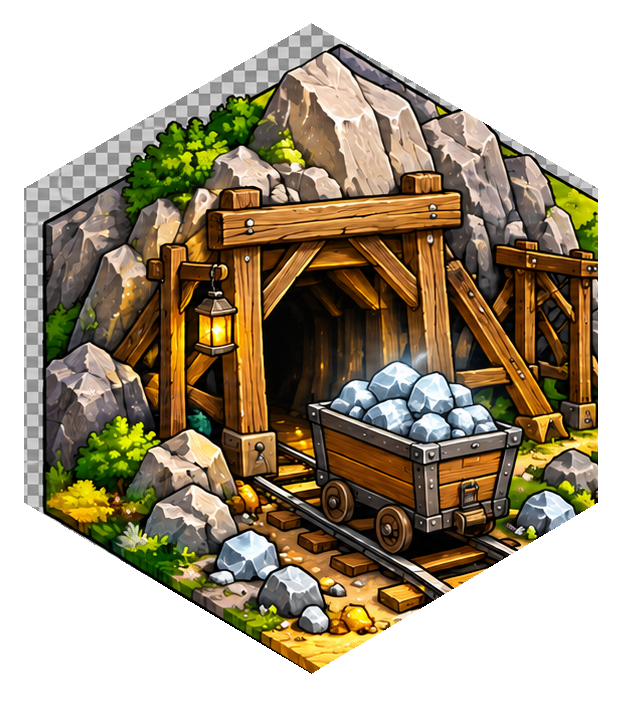
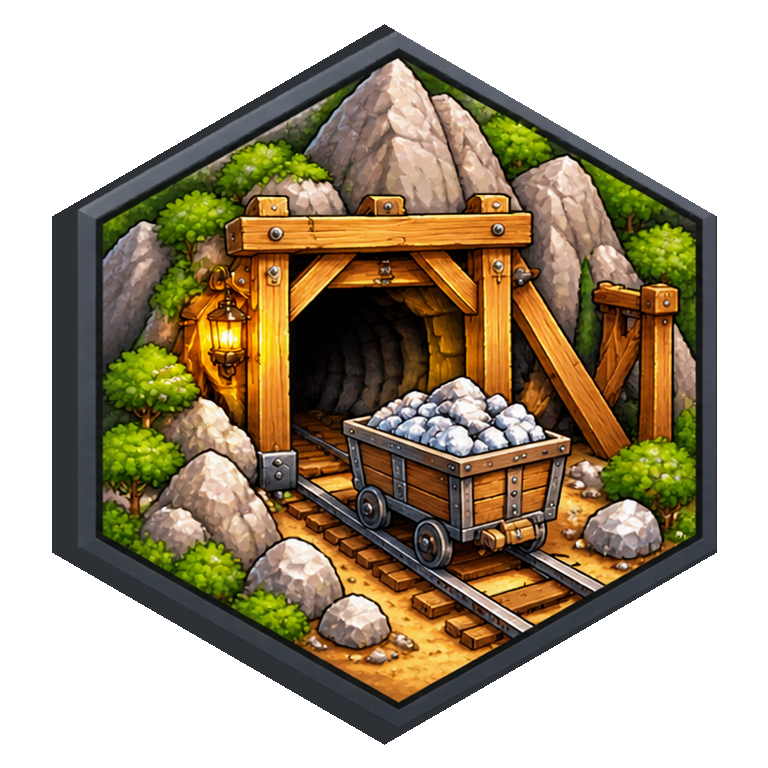
Apply final tile artwork with preserved rims and versioned assets

diff --git a/tests/browser/tile-png.spec.ts b/tests/browser/tile-png.spec.ts
@@ -1,3 +1,5 @@
+import { createHash } from "node:crypto";
+import finalTiles from "../../public/tiles/estate/manifest.json";
 import { test, expect, type Locator } from "@playwright/test";
 import { setup, placed, stash } from "../fixtures/shields";
 import { validateCoreState } from "../../src/game/core/state";
@@ -39,9 +41,9 @@ test("four PNG illustrations share intact hex frames across supply storage estat
 
 test("castle silver mine and ship use one full PNG frame in supply storage estate and zoom",async({page},info)=>{
  await init(page);
- for(const asset of ["castle","mine","ship"]){const game=fixture(asset);await load(page,game);const path=`/tiles/${asset}.png`,images=page.locator(`image[data-tile-art-png="${path}"]`);await expect.poll(()=>images.count()).toBeGreaterThanOrEqual(3);
-  for(const image of await images.all()){await expect(image).toHaveAttribute("data-tile-image-mode","full");await expect(image).toHaveAttribute("preserveAspectRatio","xMidYMid meet");await expect(frame(image).locator('[data-tile-frame="svg"]')).toHaveCount(0);await expect(frame(image)).toHaveAttribute("viewBox",await frame(image).getAttribute("data-estate-art")?/^0 0 100 115\.47/:"0 0 100 110");}
-  await expect(page.locator(`.estate-keyspaces image[href="${path}"]`)).toHaveCount(1);expect(await page.locator(`.common-board-svg image[href="${path}"]`).count()).toBeGreaterThanOrEqual(1);
+ for(const asset of ["castle","mine","ship"] as const){const game=fixture(asset);await load(page,game);const path=`/tiles/${asset}.png`,images=page.locator(`image[data-tile-art-png="${path}"]`);await expect.poll(()=>images.count()).toBeGreaterThanOrEqual(3);
+  for(const image of await images.all()){const href=(await image.getAttribute("href"))!;expect(href).toContain(`?v=${finalTiles.assets[asset][href.includes("/estate/")?"outputSha256":"sourceSha256"].slice(0,12)}`);const served=await page.request.get(href);expect(served.ok()).toBe(true);expect(createHash("sha256").update(await served.body()).digest("hex")).toBe(href.includes("/estate/")?finalTiles.assets[asset].outputSha256:finalTiles.assets[asset].sourceSha256);await expect(image).toHaveAttribute("data-tile-image-mode","full");await expect(image).toHaveAttribute("preserveAspectRatio","xMidYMid meet");await expect(frame(image).locator('[data-tile-frame="svg"]')).toHaveCount(0);await expect(frame(image)).toHaveAttribute("viewBox",await frame(image).getAttribute("data-estate-art")?/^0 0 100 115\.47/:"0 0 100 110");}
+  await expect(page.locator(`.estate-keyspaces image[data-tile-art-png="${path}"]`)).toHaveCount(1);expect(await page.locator(`.common-board-svg image[data-tile-art-png="${path}"]`).count()).toBeGreaterThanOrEqual(1);
   const board=page.getByRole("group",{name:"규칙A 영지",exact:true}),image=board.locator(`image[data-tile-art-png="${path}"]`).last();const visible=await visibleTile(image);await visible.scrollIntoViewIfNeeded();const before=(await visible.boundingBox())!;await page.getByRole("button",{name:"규칙A 영지 확대",exact:true}).click();expect((await visible.boundingBox())!.width).toBeGreaterThan(before.width);
   await expect(frame(image).locator("..")).toHaveAttribute("clip-path",/^url\(#estate-clip-/);await expect(frame(image).locator("[data-estate-image]")).toHaveAttribute("preserveAspectRatio","xMidYMid meet");
   expect(await page.evaluate(()=>JSON.parse(localStorage.getItem("burgundy-expanded:local-v1")!).game.revision)).toBe(game.revision);
@@ -49,10 +51,10 @@ test("castle silver mine and ship use one full PNG frame in supply storage estat
  }
 });
 test("missing full PNGs restore original SVG artwork and recover after reload",async({page})=>{
- await page.route("**/tiles/**{castle,mine,ship}.png",route=>route.fulfill({status:404,body:"missing fixture"}));await init(page);
- for(const asset of ["castle","mine","ship"]){const game=fixture(asset);await load(page,game);const path=`/tiles/${asset}.png`,fallback=page.locator(`svg[data-tile-fallback="${path}"]`);await expect.poll(()=>fallback.count()).toBeGreaterThanOrEqual(3);await expect(page.locator(`image[href="${path}"]`)).toHaveCount(0);
+ await page.route("**/tiles/**{castle,mine,ship}.png*",route=>route.fulfill({status:404,body:"missing fixture"}));await init(page);
+ for(const asset of ["castle","mine","ship"]){const game=fixture(asset);await load(page,game);const path=`/tiles/${asset}.png`,fallback=page.locator(`svg[data-tile-fallback="${path}"]`);await expect.poll(()=>fallback.count()).toBeGreaterThanOrEqual(3);await expect(page.locator(`image[data-tile-art-png="${path}"]`)).toHaveCount(0);
   for(const svg of await fallback.all()){if(await svg.getAttribute("data-estate-art")){await expect(svg.locator("..")).toHaveAttribute("clip-path",/^url\(#estate-clip-/);}else{await expect(svg.locator('[data-tile-frame="svg"]')).toHaveCount(1);await expect(svg.locator("polygon").first()).toHaveAttribute("points","50,3 94,28 94,80 50,106 6,80 6,28");}expect(await svg.locator("path").count()).toBeGreaterThan(2);}
   expect(await page.evaluate(()=>JSON.parse(localStorage.getItem("burgundy-expanded:local-v1")!).game.revision)).toBe(game.revision);
  }
- await page.unroute("**/tiles/**{castle,mine,ship}.png");await page.reload();await expect(page.locator('image[href="/tiles/ship.png"]').first()).toBeAttached();await expect(page.locator('svg[data-tile-fallback="/tiles/ship.png"]')).toHaveCount(0);
+ await page.unroute("**/tiles/**{castle,mine,ship}.png*");await page.reload();await expect(page.locator('image[data-tile-art-png="/tiles/ship.png"]').first()).toBeAttached();await expect(page.locator('svg[data-tile-fallback="/tiles/ship.png"]')).toHaveCount(0);
 });

diff --git a/tests/browser/estate-geometry.spec.ts b/tests/browser/estate-geometry.spec.ts
@@ -1,3 +1,7 @@
+import { createElement } from "react";
+import { renderToStaticMarkup } from "react-dom/server";
+import { EstateTile, EstateGrid } from "../../src/app/estate-tile";
+import { estatePoints } from "../../src/app/estate-geometry";
 import { test,expect,type Page } from "@playwright/test";
 import { setup,placed } from "../fixtures/shields";
 import { serializeSavedGame } from "../../src/game/save";
@@ -14,7 +18,7 @@ test("estate zoom preserves board cells and saved game while recording layout",a
  const game=await load(page),board=page.getByRole("group",{name:"규칙A 영지",exact:true});let zoom=100;
  for(const target of [100,160,200]){while(zoom<target){await page.getByRole("button",{name:"규칙A 영지 확대",exact:true}).click();zoom+=10;}await expect(board.locator(".hex-cell")).toHaveCount(37);
   expect(await page.evaluate(()=>JSON.parse(localStorage.getItem("burgundy-expanded:local-v1")!).game)).toEqual(game);
-  if(process.env.ESTATE_CAPTURE_PREFIX==="before"?((info.project.name==="mobile-375"||info.project.name==="desktop-1280")&&target===160):(info.project.name==="mobile-375"||((info.project.name==="mobile-390"||info.project.name==="desktop-1280")&&target===160)))await board.screenshot({path:`.local-data/qa/estate-${process.env.ESTATE_CAPTURE_PREFIX??"after"}-${info.project.name}-${target}.png`});
+  if(process.env.ESTATE_CAPTURE_PREFIX==="before"?((info.project.name==="mobile-375"||info.project.name==="desktop-1280")&&target===160):(info.project.name==="desktop-1280"||info.project.name==="mobile-375"||(info.project.name==="mobile-390"&&target===160)))await board.screenshot({path:`.local-data/qa/estate-${process.env.ESTATE_CAPTURE_PREFIX??"after"}-${info.project.name}-${target}.png`});
  }
  const panel=board.locator("xpath=ancestor::section[1]"),viewport=board.locator("..");await panel.getByRole("button",{name:"영지 드래그 이동",exact:true}).click();await viewport.scrollIntoViewIfNeeded();
  if(await viewport.evaluate(el=>el.scrollWidth>el.clientWidth)){await viewport.evaluate(el=>{el.scrollLeft=0;});const b=(await viewport.boundingBox())!,size=page.viewportSize()!,x=Math.min(b.x+b.width-30,size.width-30),y=(Math.max(130,b.y)+Math.min(b.y+b.height,size.height-80))/2;await page.mouse.move(x,y);await page.mouse.down();await page.mouse.move(x-90,y,{steps:6});await page.mouse.up();expect(await viewport.evaluate(el=>el.scrollLeft)).toBeGreaterThan(0);}
@@ -53,4 +57,14 @@ test("normalized estate PNGs share one exact opaque hex mask without border padd
  const board=page.getByRole("group",{name:"규칙A 영지",exact:true});
  const images=board.locator('image[data-estate-image="normalized"]');expect(await images.count()).toBeGreaterThanOrEqual(4);
  const specs=await images.evaluateAll(els=>els.map(el=>["x","y","width","height","preserveAspectRatio"].map(a=>el.getAttribute(a)).join("|")));expect(new Set(specs).size).toBe(1);
+});
+
+
+test("all final framed tile pairs share edges and retain rims at PC zooms",async({page})=>{
+ const cells=(["castle","mine","ship"] as const).flatMap((type,row)=>[0,1].map(column=>({id:`${type}-${column}`,coord:{q:column-row,r:2*row},tile:{id:`pair-${type}-${column}`,type,back:"matching-color"} as Tile})));
+ const markup=renderToStaticMarkup(createElement("svg",{xmlns:"http://www.w3.org/2000/svg",viewBox:"260 220 190 410",width:380,height:820,"data-pair-board":"true"},...cells.map(cell=>createElement("g",{key:cell.id,"data-estate-cell":cell.id},createElement("polygon",{points:estatePoints(cell.coord),fill:"#eee9db"}),createElement(EstateTile,{tile:cell.tile,coord:cell.coord}))),createElement(EstateGrid,{cells})));
+ await page.goto("/");await page.setContent(`<html><body style="margin:0;background:#f5f0d2"><div>TEST FIXTURE · shared game EstateTile renderer</div>${markup}</body></html>`);
+ await page.locator('image[data-estate-image="normalized"]').evaluateAll(async els=>{await Promise.all(els.map(async el=>{const probe=new Image();probe.src=el.getAttribute("href")!;await probe.decode();}));});
+ const board=page.locator("[data-pair-board]");
+ for(const zoom of [100,160,200]){await board.evaluate((el,z)=>{el.setAttribute("width",String(190*z/100));el.setAttribute("height",String(410*z/100));},zoom);await board.screenshot({path:`.local-data/qa/final-tiles-pairs-${zoom}.png`});expect(await board.locator('[data-estate-tile]').count()).toBe(6);}
 });

diff --git a/src/app/tile-art.tsx b/src/app/tile-art.tsx
@@ -3,6 +3,7 @@
 import { useEffect, useState, type SVGProps } from "react";
 import type { Tile, TileType } from "../game/types";
 import { ESTATE_ART_HEIGHT } from "./estate-geometry";
+import finalTiles from "../../public/tiles/estate/manifest.json";
 
 export const terrainPaint: Record<TileType, string> = {
   castle: "#247654", ship: "#277f9b", mine: "#8f9188",
@@ -14,8 +15,10 @@ const edge = "50,3 94,28 94,80 50,106 6,80 6,28";
 export function TileArt({ tile, estate=false, ...props }: { tile: Tile; estate?:boolean } & SVGProps<SVGSVGElement>) {
   const building = tile.type === "building" ? tile.building : null;
   const tower = building === "watchtower" || building === "church";
-  const framedSource = tile.type === "castle" || tile.type === "mine" || tile.type === "ship" ? `/tiles/${tile.type}.png` : null;
-  const candidate = (estate&&framedSource?`/tiles/estate/${tile.type}.png`:framedSource) ?? (tile.type === "monastery" && (tile.number === 27 || tile.number === 28) ? `/tiles/monastery-${tile.number}.png` : building === "crane" ? "/tiles/crane.png" : tile.type === "livestock" && tile.species === "geese" ? "/tiles/goose.png" : null);
+  const framedType = tile.type === "castle" || tile.type === "mine" || tile.type === "ship" ? tile.type : null;
+  const framedSource = framedType ? `/tiles/${framedType}.png` : null;
+  const version = framedType ? finalTiles.assets[framedType][estate?"outputSha256":"sourceSha256"].slice(0,12) : null;
+  const candidate = (framedSource?`${estate?`/tiles/estate/${framedType}.png`:framedSource}?v=${version}`:null) ?? (tile.type === "monastery" && (tile.number === 27 || tile.number === 28) ? `/tiles/monastery-${tile.number}.png` : building === "crane" ? "/tiles/crane.png" : tile.type === "livestock" && tile.species === "geese" ? "/tiles/goose.png" : null);
   const [failedIllustration,setFailedIllustration]=useState<string|null>(null);
   // An SSR image may fail before hydration attaches onError. Probe again after mount.
   useEffect(()=>{if(!candidate)return;let active=true;const probe=new Image();probe.onerror=()=>{if(active)setFailedIllustration(candidate);};probe.src=candidate;return()=>{active=false;probe.onerror=null;};},[candidate]);

diff --git a/scripts/normalize-estate-tiles.py b/scripts/normalize-estate-tiles.py
@@ -1,97 +1,82 @@
-"""Presentation-only estate assets. Run with Python + Pillow; originals are never written.
-
-Fit the six body edges from opaque alpha runs (not flags or bounding-box margins).
-Uniformly cover a regular pointy hex, excluding the baked-in border by 1% of
-body height. All three images use exactly this algorithm, canvas and mask.
+"""Register the final shared 768px hex artwork to the board without cropping.
+Run with Python + Pillow. Originals are read-only. Six triangles map the measured
+source vertices to a regular pointy hex; one common transform preserves the rims.
 """
 from pathlib import Path
-from collections import Counter
-from statistics import median
 import hashlib
 import json
 import math
-from PIL import Image, ImageDraw
+from PIL import Image, ImageDraw, ImageChops
 
 ROOT = Path(__file__).resolve().parents[1]
 SIZE = 1024
+SOURCE_SIZE = 768
+SOURCE_CENTER = (384, 384)
+# Shared final alpha-mask vertices, measured from all three originals.
+SOURCE_VERTICES = [(384, 24), (716, 216), (716, 552), (384, 744), (52, 552), (52, 216)]
+TARGET_VERTICES = [(SIZE/2+SIZE/2*math.cos(math.radians(-90+60*i)),
+                    SIZE/2+SIZE/2*math.sin(math.radians(-90+60*i))) for i in range(6)]
 
 
-def line(points):
-    slope = median((x2-x1)/(y2-y1) for i, (y1, x1) in enumerate(points)
-                   for y2, x2 in points[i+1:] if y2 != y1)
-    return slope, median(x-slope*y for y, x in points)
+def affine(destination, source):
+    (x0,y0),(x1,y1),(x2,y2) = destination
+    determinant = (x1-x0)*(y2-y0)-(x2-x0)*(y1-y0)
+    def coefficients(values):
+        a = ((values[1]-values[0])*(y2-y0)-(values[2]-values[0])*(y1-y0))/determinant
+        b = ((x1-x0)*(values[2]-values[0])-(x2-x0)*(values[1]-values[0]))/determinant
+        return a,b,values[0]-a*x0-b*y0
+    return (*coefficients([p[0] for p in source]), *coefficients([p[1] for p in source]))
 
 
-def intersection(a, b):
-    y = (b[1]-a[1])/(a[0]-b[0])
-    return a[0]*y+a[1], y
-
-
-def normalize(name):
-    source = ROOT / f"public/tiles/{name}.png"
-    image = Image.open(source).convert("RGBA")
-    w, h = image.size
-    alpha = image.getchannel("A")
-    rows = []
-    for y in range(h):
-        opaque = [x for x in range(w) if alpha.getpixel((x, y)) >= 250]
-        if opaque:
-            rows.append((y, min(opaque), max(opaque)))
-    # The ship flag protrudes in the upper right. Sample the actual diagonal
-    # below it; all sampling bands are identical fractions for every source.
-    left = Counter(a for y, a, b in rows if .4*h < y < .7*h).most_common(1)[0][0]
-    right = Counter(b for y, a, b in rows if .4*h < y < .7*h).most_common(1)[0][0]
-    ul = line([(y, a) for y, a, b in rows if .14*h < y < .29*h])
-    ur = line([(y, b) for y, a, b in rows if .27*h < y < .30*h])
-    ll = line([(y, a) for y, a, b in rows if .76*h < y < .9*h])
-    lr = line([(y, b) for y, a, b in rows if .76*h < y < .9*h])
-    top, bottom = intersection(ul, ur), intersection(ll, lr)
-    body = [top, (right, (right-ur[1])/ur[0]),
-            (right, (right-lr[1])/lr[0]), bottom,
-            (left, (left-ll[1])/ll[0]), (left, (left-ul[1])/ul[0])]
-    cx, cy = (left+right)/2, (top[1]+bottom[1])/2
-    inset = (bottom[1]-top[1])*.01
-    vertices = [(SIZE/2*math.cos(math.radians(-90+60*i)),
-                 SIZE/2*math.sin(math.radians(-90+60*i))) for i in range(6)]
-    scale = 0
-    for i, a in enumerate(body):
-        b = body[(i+1) % 6]
-        nx, ny = b[1]-a[1], a[0]-b[0]
-        length = math.hypot(nx, ny)
-        nx, ny = nx/length, ny/length
-        distance = nx*(a[0]-cx)+ny*(a[1]-cy)-inset
-        assert distance > 0, "Invalid measured hex body"
-        scale = max(scale, max(nx*x+ny*y for x, y in vertices)/distance)
-    # One isotropic scale: no independent x/y stretch or image-specific CSS.
-    result = image.transform((SIZE, SIZE), Image.Transform.AFFINE,
-                             (1/scale, 0, cx-SIZE/2/scale,
-                              0, 1/scale, cy-SIZE/2/scale), Image.Resampling.BICUBIC)
-    mask = Image.new("L", (SIZE*4, SIZE*4))
-    ImageDraw.Draw(mask).polygon([((x+SIZE/2)*4, (y+SIZE/2)*4) for x, y in vertices], fill=255)
-    mask = mask.resize((SIZE, SIZE), Image.Resampling.LANCZOS)
-    # LANCZOS has a small ringing fringe; strictly clear every outside pixel.
-    pixels = mask.load()
+def mask():
+    result = Image.new("L", (SIZE*4,SIZE*4))
+    ImageDraw.Draw(result).polygon([(x*4,y*4) for x,y in TARGET_VERTICES],fill=255)
+    result = result.resize((SIZE,SIZE),Image.Resampling.LANCZOS)
+    pixels=result.load()
     for y in range(SIZE):
         for x in range(SIZE):
-            dx, dy = abs(x+.5-SIZE/2), abs(y+.5-SIZE/2)
-            if dx > math.sqrt(3)*SIZE/4 or dy+dx/math.sqrt(3) > SIZE/2:
-                pixels[x, y] = 0
-    # Source ship artwork is alpha 250..253 even in the solid body. Validate
-    # coverage first, then give every asset the identical opaque body/mask.
-    assert all(m < 250 or a >= 240 for m, a in
-               zip(mask.get_flattened_data(), result.getchannel("A").get_flattened_data())), "Transparent hole inside measured body"
-    result.putalpha(mask)
-    output = ROOT / f"public/tiles/estate/{name}.png"
-    result.save(output)
-    return {"sourceSha256": hashlib.sha256(source.read_bytes()).hexdigest(),
-            "sourceSize": [w, h], "bodyVertices": [[round(x, 3), round(y, 3)] for x, y in body],
-            "uniformScale": round(scale, 8), "outputSha256": hashlib.sha256(output.read_bytes()).hexdigest()}
+            dx,dy=abs(x+.5-SIZE/2),abs(y+.5-SIZE/2)
+            if dx>math.sqrt(3)*SIZE/4 or dy+dx/math.sqrt(3)>SIZE/2:
+                pixels[x,y]=0
+    return result
 
 
-if __name__ == "__main__":
-    target = ROOT / "public/tiles/estate"
-    target.mkdir(exist_ok=True)
-    assets = {name: normalize(name) for name in ("castle", "mine", "ship")}
-    (target / "manifest.json").write_text(json.dumps({"canvas": SIZE, "radius": SIZE/2,
-        "borderInsetRatio": .01, "assets": assets}, indent=2)+"\n", encoding="utf-8")
-    print("Normalized 3 estate assets; original files preserved.")
+def normalize(name, common_alpha):
+    source=ROOT/f"public/tiles/{name}.png"
+    image=Image.open(source).convert("RGBA")
+    assert image.size==(SOURCE_SIZE,SOURCE_SIZE), "Unexpected final source size"
+    assert image.getchannel("A").getbbox()==(52,24,717,745), "Source vertices changed; inspect artwork first"
+    assert image.getchannel("A").tobytes()==common_alpha, "Source masks differ; inspect new artwork first"
+    # Extend RGB just outside the alpha edge for interpolation only. This adds
+    # no visible area: the final exact board mask still clears everything outside.
+    rgb=image.convert("RGB")
+    alpha=image.getchannel("A")
+    for _ in range(2):
+        for dx,dy in [(1,0),(-1,0),(0,1),(0,-1)]:
+            moved=Image.new("RGB",image.size);moved.paste(rgb,(dx,dy))
+            moved_alpha=Image.new("L",image.size);moved_alpha.paste(alpha,(dx,dy))
+            fill=Image.eval(alpha,lambda a:255-a)
+            fill=ImageChops.multiply(fill,moved_alpha)
+            rgb.paste(moved,(0,0),fill)
+            alpha=ImageChops.lighter(alpha,moved_alpha)
+    result=Image.new("RGB",(SIZE,SIZE))
+    for i in range(6):
+        destination=[(SIZE/2,SIZE/2),TARGET_VERTICES[i],TARGET_VERTICES[(i+1)%6]]
+        original=[SOURCE_CENTER,SOURCE_VERTICES[i],SOURCE_VERTICES[(i+1)%6]]
+        part=rgb.transform((SIZE,SIZE),Image.Transform.AFFINE,affine(destination,original),Image.Resampling.BICUBIC)
+        triangle=Image.new("L",(SIZE,SIZE));ImageDraw.Draw(triangle).polygon(destination,fill=255)
+        result.paste(part,(0,0),triangle)
+    result.putalpha(mask())
+    output=ROOT/f"public/tiles/estate/{name}.png";result.save(output)
+    return {"sourceSha256":hashlib.sha256(source.read_bytes()).hexdigest(),
+            "sourceSize":[SOURCE_SIZE,SOURCE_SIZE],"outputSha256":hashlib.sha256(output.read_bytes()).hexdigest()}
+
+
+if __name__=="__main__":
+    target=ROOT/"public/tiles/estate";target.mkdir(exist_ok=True)
+    common=Image.open(ROOT/"public/tiles/castle.png").convert("RGBA").getchannel("A").tobytes()
+    assets={name:normalize(name,common) for name in ("castle","mine","ship")}
+    (target/"manifest.json").write_text(json.dumps({"canvas":SIZE,"radius":SIZE/2,
+        "mapping":"shared-six-vertex-registration","borderInsetRatio":0,
+        "sourceVertices":SOURCE_VERTICES,"assets":assets},indent=2)+"\n",encoding="utf-8")
+    print("Registered 3 final estate assets, rims retained; originals preserved.")

diff --git a/docs/PROGRESS.md b/docs/PROGRESS.md
@@ -1,12 +1,11 @@
 # 현재 개발 체크포인트
 
-갱신:2026-10-19. 전체 프로젝트 미완료. [직전 영지 간격 기록](history/progress-estate-spacing-2026-10-19.md).
+갱신:2026-10-19. 전체 프로젝트 미완료. [직전 정밀 정렬 기록](history/progress-estate-registration-2026-10-19.md).
 
-- 이번 요청: 개인 영지 성/광산/선박 PNG의 경계 정밀 정렬. 시작 main/b7e4650, 기존 미커밋은 사용자 원본 public/tiles/{castle,mine,ship}.png 세 개다. 원본 바이트를 보존하며 이번 커밋에는 포함하지 않는다.
-- 원인: 원본은768×768로 바뀌었지만 예전603/622/640×724용 개별 crop이 남아 있었다. 선박의 깃발은 alpha bbox를 넓히며 본체 내부 alpha도250~253이다.
-- scripts/normalize-estate-tiles.py는 공통 alpha 경계 샘플/직선 피팅으로 실제 육각 본체를 측정한다. 세 이미지 모두 동일1% 내측 경계·단일 등방성 배율·1024 정사각형·보드와 같은 정육각 마스크를 사용한다. 기존 그림 속 테두리를 잘라 보드 선만 표시한다. 측정/원본 해시는 public/tiles/estate/manifest.json에 기록한다.
-- 파생 이미지 바깥 alpha0/안쪽255. 그림을 x/y로 따로 늘리지 않으며 원본을 수정하지 않는다. TileArt의 개별 crop을 제거하고 영지 전용 파생 PNG에 공통 위치/크기만 적용한다. 공용/보관 렌더링과 엔진/저장 코드는 변경하지 않는다.
-- 검사: PC 새 기하/마스크3개 통과. TEST FIXTURE 인접 선박2개·100/160/200% 및 PC 스크린샷(.local-data/qa/estate-precision-desktop-1280-160.png)/실제 hit-test 확인. 코어286/286·보드33/33·TypeScript·ESLint·Turbopack 빌드 통과. 관련375/390/768/1280 브라우저56/56 통과(2.0분, precision-browser.log).
-- 검사 중 발견/수정: 새 alpha 검사에서 선박 본체 반투명도를 보정했으며, 새 검사 배열의 암시적 any를 명시 타입으로 수정한 후 타입/빌드를 재실행해 통과했다. 제품 규칙 변경은 없다.
-- 백업 완료: 검증된 이번12개 파일을 ffdcbf7로 비공개 origin/main에 Commit/Push하고 원격 전체 해시 일치를 확인했다. 민감정보/파생 PNG 메타데이터·원본 해시 보존도 확인했다. 원본3개 기존 변경은 스테이징하지 않고 미커밋 상태 그대로 보존했다.
-- 다음 재개: 이 체크포인트와 TODO에서 새 요청 관련 항목만 확인한다. 이번 정렬 수정은 완료이며 전체 브라우저/실기기 검증 및 기존 보류 모드는 별도 미완료다.
+- 요청: 최종768×768 원본 castle/mine/ship 적용·테두리 보존·PC100/160/200% 검증 및 원본 포함 백업. 시작 main/1f04d88, 기존 미커밋은 이 원본3개뿐이다. 이번 요청에서 세 원본의 백업을 명시 승인했다. 원본 바이트는 수정하지 않는다.
+- 원본3개 알파는 동일하나 파생 manifest의 원본 해시는 모두 오래되었다. 실제 공통 꼭짓점은(384,24),(716,216),(716,552),(384,744),(52,552),(52,216)이다. 이 비율은 정육각형과 다르므로 단순 bbox 확대는 경계를 맞출 수 없다.
+- normalize-estate-tiles.py를 공통 여섯 꼭짓점 등록으로 변경했다.1% 내측 크롭을 제거하고 원본의 초록/회색/파란 테두리를 모두 보존한다. 같은 여섯 삼각형 변환으로 보드의 정육각 꼭짓점에 맞추며, 외부RGB2px 연장은 보간용으로만 사용하고 실제 바깥은 마스크로 완전 투명하다. 모든 종류에 같은 변환/마스크를 적용한다. 원본 크기/알파bbox/세 마스크 동일성을 검사하고 달라지면 실패한다.
+- TileArt는 공용/보관에서 원본, 영지에서 재생성한 estate 파생 PNG를 사용한다. 두 경로에 각각 sourceSha256/outputSha256 기반?v=를 붙여 이전 캐시와 구분한다. 게임 규칙/효과/저장과 다른 타일은 변경하지 않는다.
+- PC 실제 영지100/160/200% 스크린샷 .local-data/qa/final-tiles-game-{100,160,200}.png 확인. 세 종류별 인접2개도 게임 EstateTile 렌더러의 TEST FIXTURE에서 final-tiles-pairs-{100,160,200}.png로 캡처한다. 실서빙 원본/파생 응답의 SHA256도 manifest와 비교한다. 모바일 정밀 QA는 사용자 지시에 따라 이번에 실행하지 않는다.
+- 검사: 관련 PC15/15(렌더링7+배치/방패/저장/온라인8), 코어286/286·보드33/33 통과. 영지/세 종류별 타일쌍100/160/200%의6개 스크린샷을 직접 확인했다. 타입·린트·빌드도 통과했으며 마지막 캐시 버전 보완 후 타입/린트/빌드 및 응답 해시 검사1/1을 재실행해 통과했다. 로그 .local-data/qa/final-tiles-*.log.
+- 다음: 마지막 캐시 검사/빌드 결과 확인 → TODO 갱신 → 원본3개와 이번 관련14개 파일만 Commit/Push·원격 해시 확인. 민감정보/PNG 메타데이터·원본 바이트 보존·비공개 main/권한/원격 동기화는 확인했다.

diff --git a/docs/history/progress-estate-registration-2026-10-19.md b/docs/history/progress-estate-registration-2026-10-19.md
@@ -1,0 +1,12 @@
+# 현재 개발 체크포인트
+
+갱신:2026-10-19. 전체 프로젝트 미완료. [직전 영지 간격 기록](progress-estate-spacing-2026-10-19.md).
+
+- 이번 요청: 개인 영지 성/광산/선박 PNG의 경계 정밀 정렬. 시작 main/b7e4650, 기존 미커밋은 사용자 원본 public/tiles/{castle,mine,ship}.png 세 개다. 원본 바이트를 보존하며 이번 커밋에는 포함하지 않는다.
+- 원인: 원본은768×768로 바뀌었지만 예전603/622/640×724용 개별 crop이 남아 있었다. 선박의 깃발은 alpha bbox를 넓히며 본체 내부 alpha도250~253이다.
+- scripts/normalize-estate-tiles.py는 공통 alpha 경계 샘플/직선 피팅으로 실제 육각 본체를 측정한다. 세 이미지 모두 동일1% 내측 경계·단일 등방성 배율·1024 정사각형·보드와 같은 정육각 마스크를 사용한다. 기존 그림 속 테두리를 잘라 보드 선만 표시한다. 측정/원본 해시는 public/tiles/estate/manifest.json에 기록한다.
+- 파생 이미지 바깥 alpha0/안쪽255. 그림을 x/y로 따로 늘리지 않으며 원본을 수정하지 않는다. TileArt의 개별 crop을 제거하고 영지 전용 파생 PNG에 공통 위치/크기만 적용한다. 공용/보관 렌더링과 엔진/저장 코드는 변경하지 않는다.
+- 검사: PC 새 기하/마스크3개 통과. TEST FIXTURE 인접 선박2개·100/160/200% 및 PC 스크린샷(.local-data/qa/estate-precision-desktop-1280-160.png)/실제 hit-test 확인. 코어286/286·보드33/33·TypeScript·ESLint·Turbopack 빌드 통과. 관련375/390/768/1280 브라우저56/56 통과(2.0분, precision-browser.log).
+- 검사 중 발견/수정: 새 alpha 검사에서 선박 본체 반투명도를 보정했으며, 새 검사 배열의 암시적 any를 명시 타입으로 수정한 후 타입/빌드를 재실행해 통과했다. 제품 규칙 변경은 없다.
+- 백업 완료: 검증된 이번12개 파일을 ffdcbf7로 비공개 origin/main에 Commit/Push하고 원격 전체 해시 일치를 확인했다. 민감정보/파생 PNG 메타데이터·원본 해시 보존도 확인했다. 원본3개 기존 변경은 스테이징하지 않고 미커밋 상태 그대로 보존했다.
+- 다음 재개: 이 체크포인트와 TODO에서 새 요청 관련 항목만 확인한다. 이번 정렬 수정은 완료이며 전체 브라우저/실기기 검증 및 기존 보류 모드는 별도 미완료다.

diff --git a/docs/TODO.md b/docs/TODO.md
@@ -1,5 +1,10 @@
 # Burgundy Expanded 전체 개발 체크리스트
 
+## 현재 — 최종3종 PNG·테두리 보존
+- [x] 새 원본/기존 파생 해시를 비교하고 동일 꼭짓점 등록으로 테두리 크롭 없이 재생성한다.
+- [x] 공용/보관/영지·실서빙 해시/캐시·세 종류 인접2개·PC100/160/200% 화면을 확인한다.
+- [ ] 관련 검사/빌드 후 원본3개와 관련 변경만 비공개 main에 백업한다. 모바일 정밀 QA는 최종 QA에 남긴다.
+
 ## 완료한 최근 작업 — 영지 PNG 육각 경계 정밀 정렬
 - [x] 교체된 원본 본체/알파를 측정하고 같은 규격의 정규화 파생 에셋과 공통 렌더링을 적용한다.
 - [x] 인접 선박2개·100/160/200%·PC 화면·동일 마스크/빈칸 좌표·PNG 누락 대체를 검증한다.
